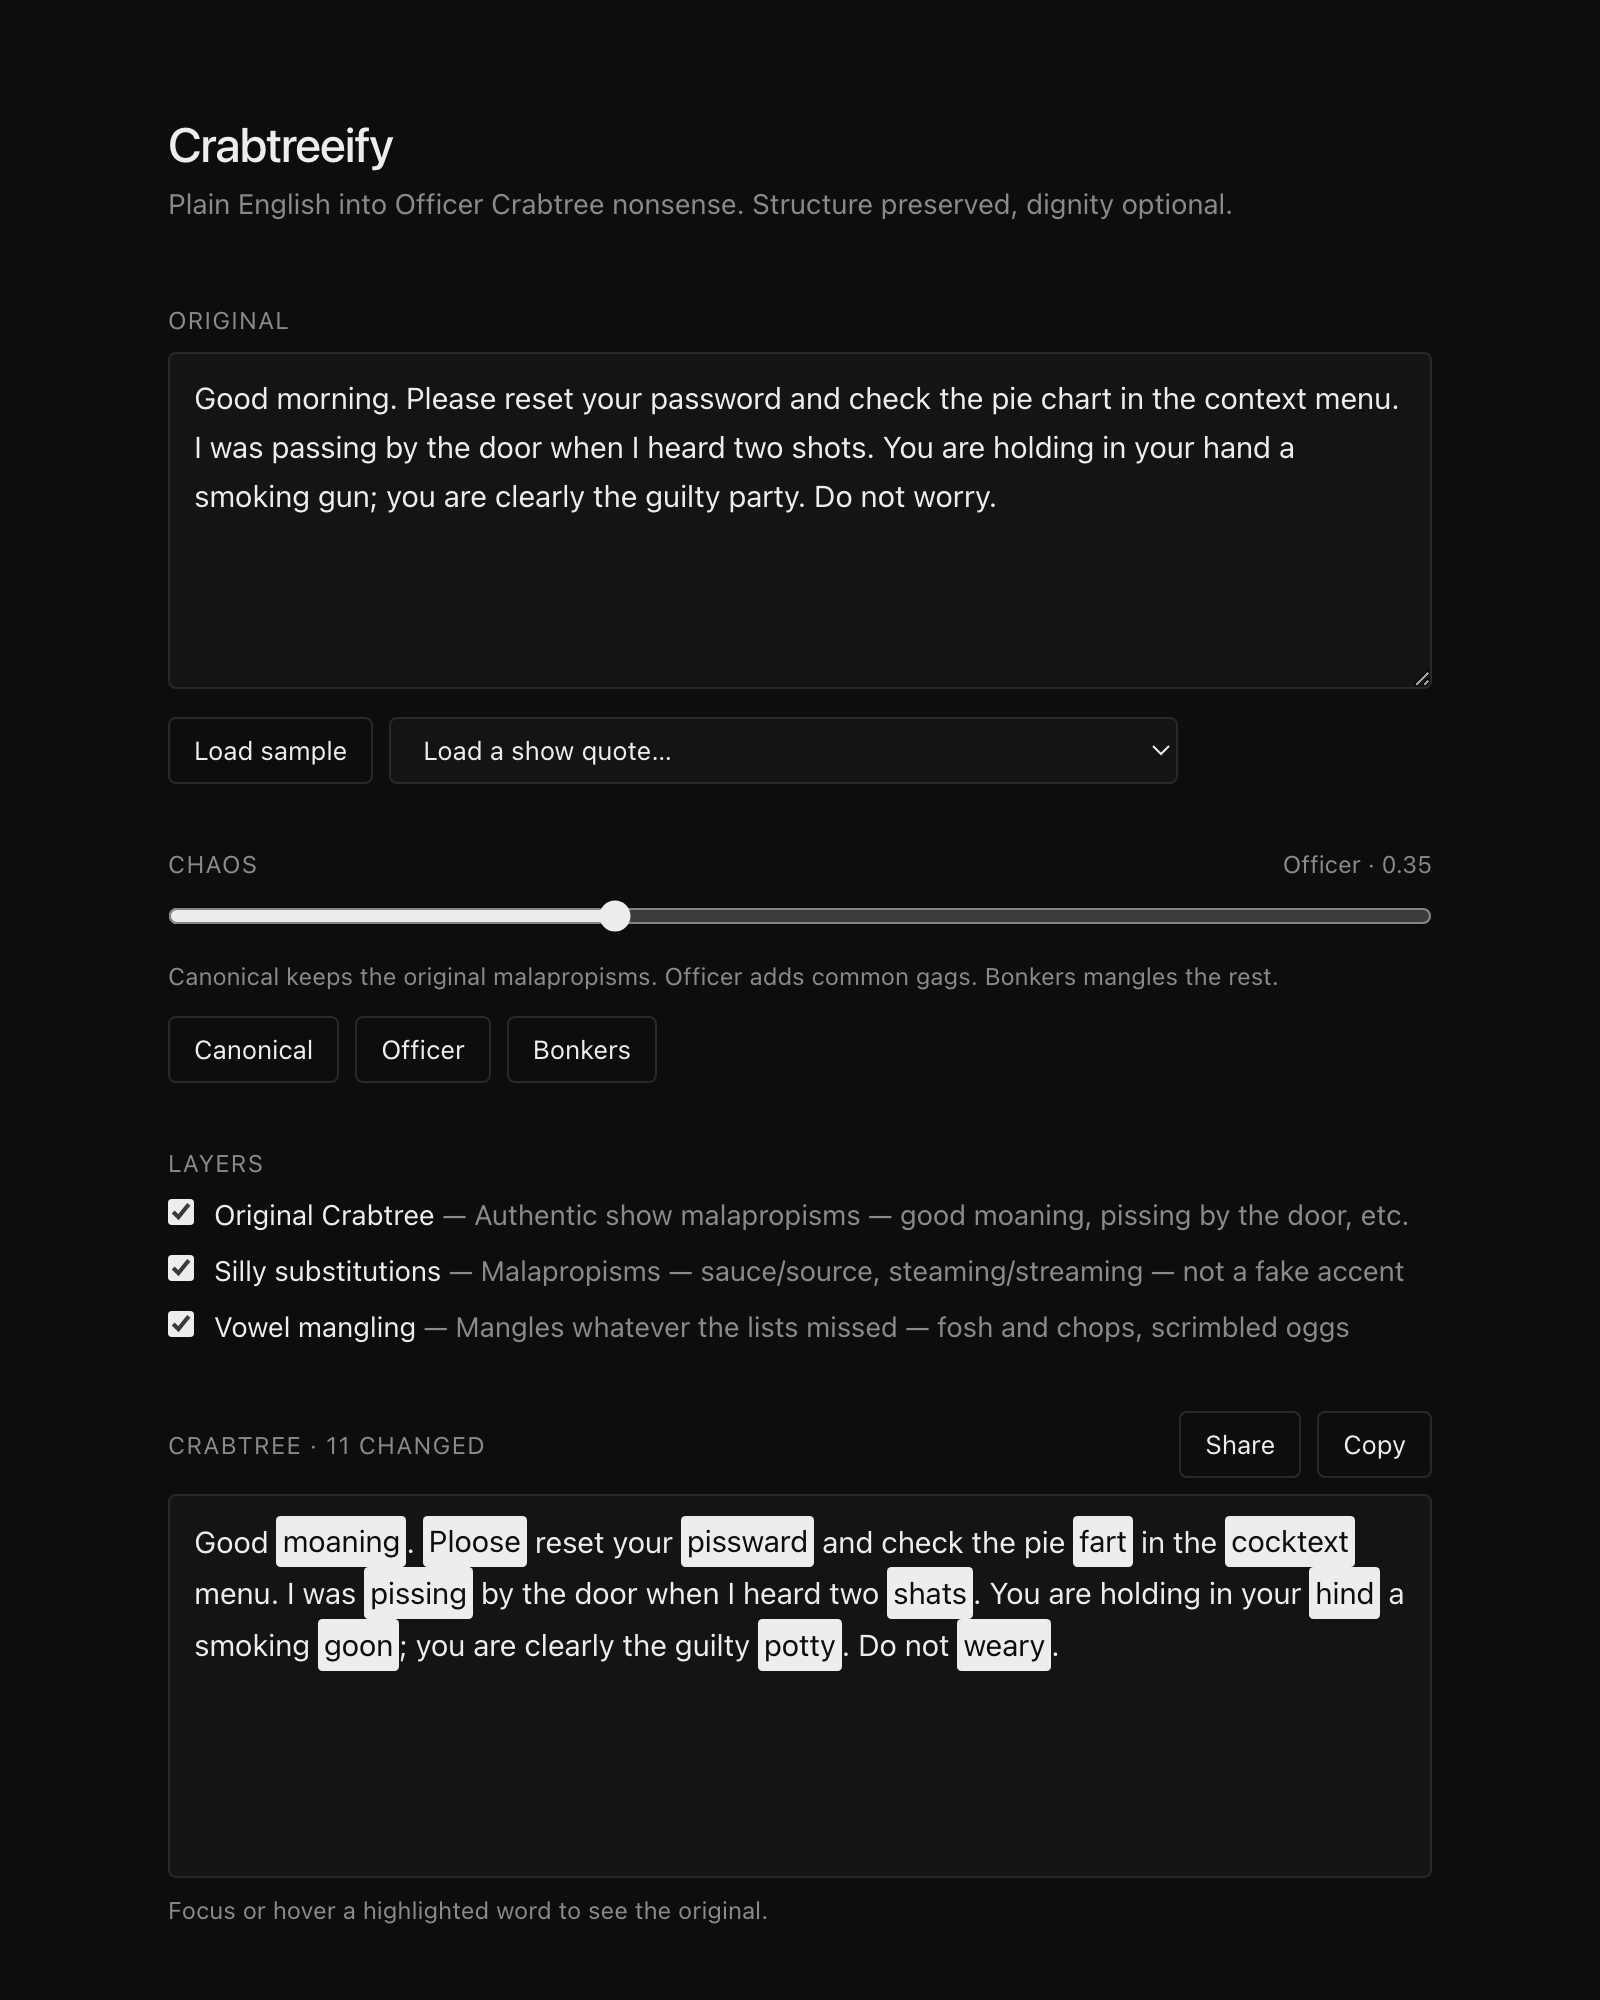
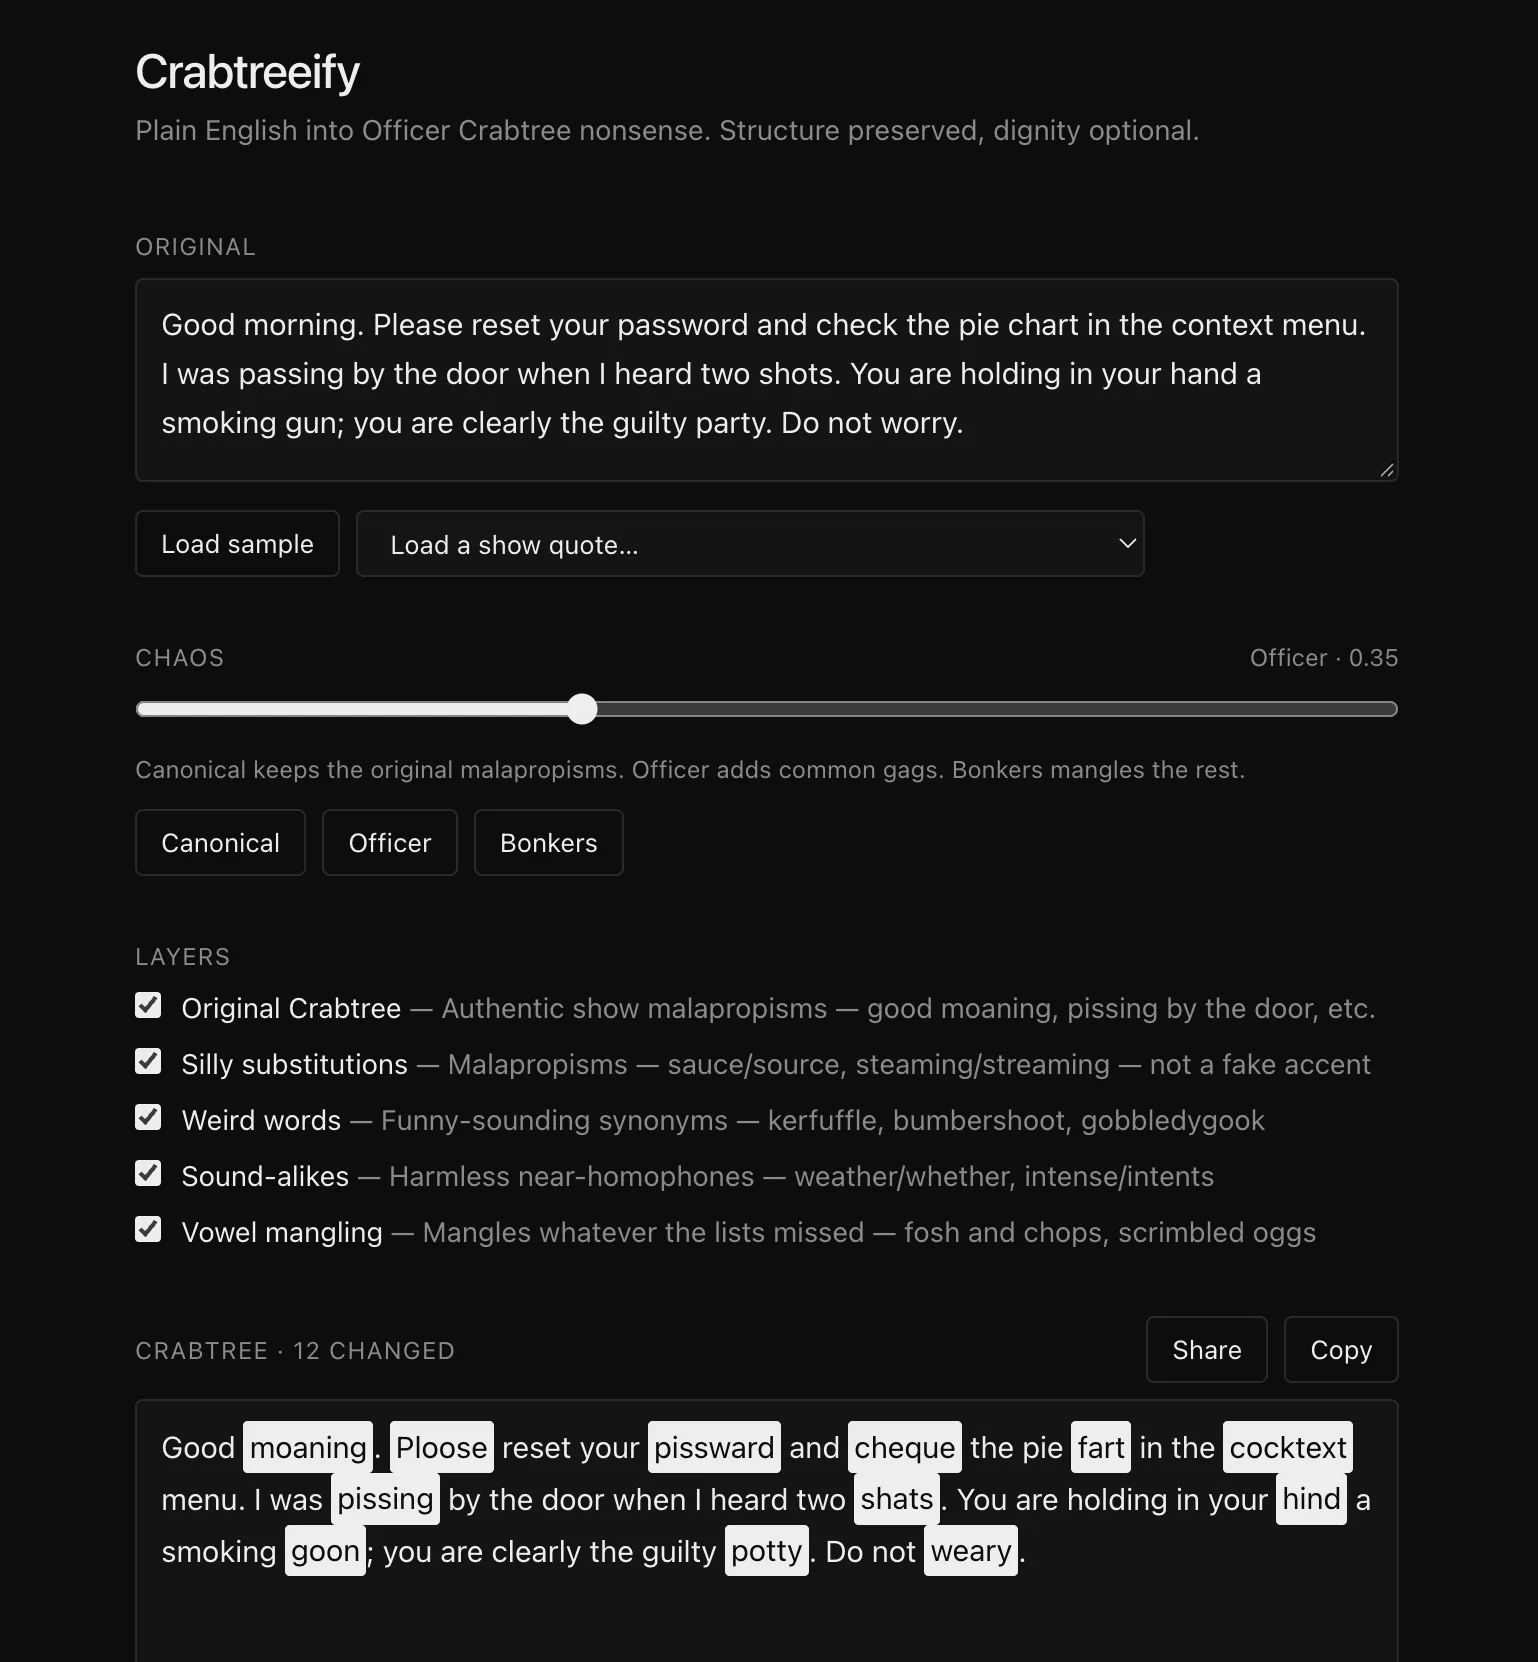
Update the README screenshot for the five-layer app.
The old image showed three layers and 11 changes. The new one is the current Officer 0.35 view, with sound-alikes on and 12 changes.

diff --git a/README.md b/README.md
@@ -4,7 +4,7 @@ Turn plain English into Officer Crabtree nonsense from _'Allo 'Allo!_, the under
 
 **Live demo: <https://meigo.github.io/crabtreeify/>**
 
-![Crabtreeify app: sample text in the Original box, the chaos slider at Officer 0.35 with all three layers on, and the Crabtree output with 11 changed words highlighted](docs/screenshot.webp)
+![Crabtreeify app: sample text in the Original box, the chaos slider at Officer 0.35 with all five layers on, and the Crabtree output with 12 changed words highlighted](docs/screenshot.webp)
 
 Everything runs in your browser. Text never leaves the page, and share links keep their settings in the URL hash, which browsers do not send to servers.
 
